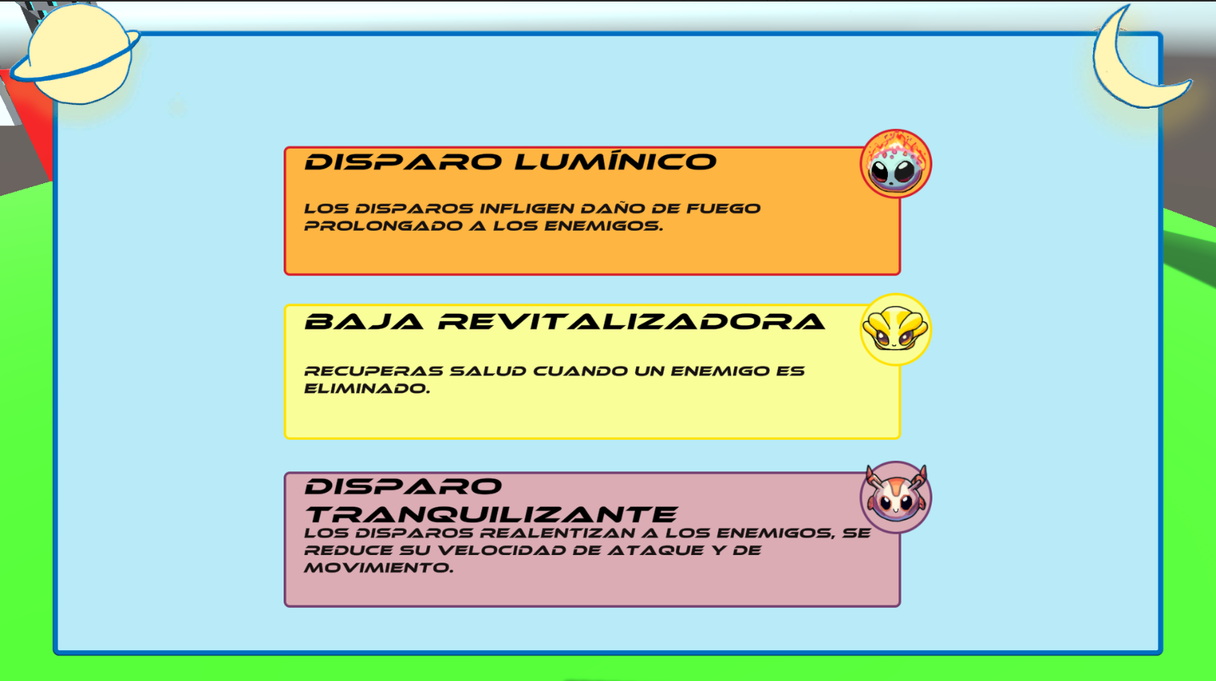
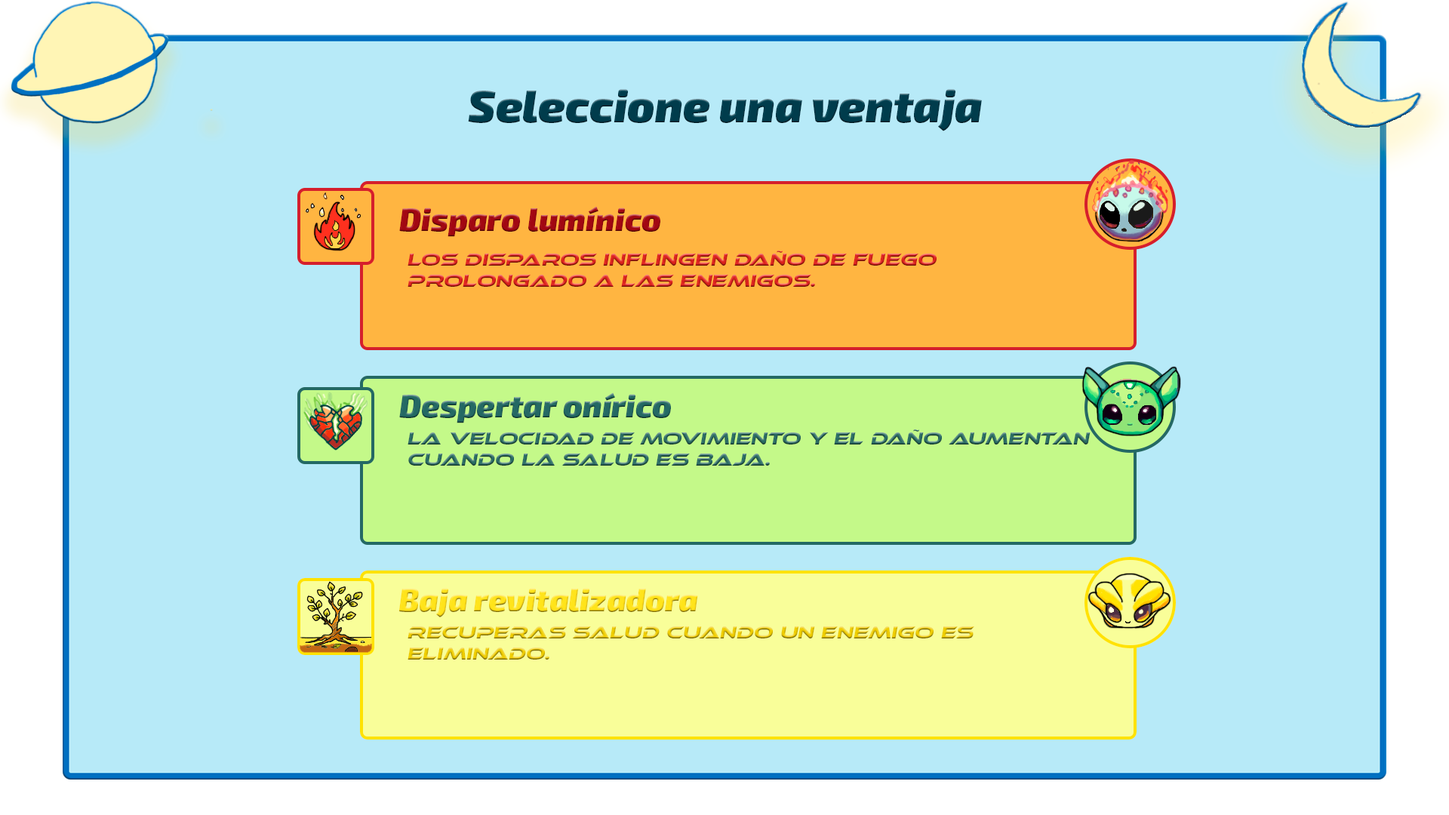
Actualizacion final del GDD

diff --git a/README.md b/README.md
@@ -130,25 +130,28 @@
 - [Ilustración 16: Menú de ajustes](#ilustración-16-menú-de-ajustes)
 - [Ilustración 17: Mockup juego](#ilustración-17-mockup-juego)
 - [Ilustración 18: Pantalla Elección de Mejoras](#ilustración-18-pantalla-de-elección-de-mejoras)
-- [Ilustración 19: Diagrama de flujo](#ilustración-19-diagrama-de-flujo)
-- [Ilustración 20: Siluetas personaje principal](#ilustración-20-siluetas-personaje-principal)
-- [Ilustración 21: Desarrollo concepts personaje principal](#ilustración-21-desarrollo-concepts-personaje-principal)
-- [Ilustración 22: Variación de color del personaje principal](#ilustración-22-variación-de-color-del-personaje-principal)
-- [Ilustración 23: Concepts Armas](#ilustración-23-concepts-armas)
-- [Ilustración 24: Escenario del mercader](#ilustración-24-escenario-del-mercader)
-- [Ilustración 25: Render modelado final](#ilustración-25-render-modelado-final)
-- [Ilustración 26: Skinning](#ilustración-26-skinning)
-- [Ilustración 27: Mapa de Empatía](#ilustración-27-mapa-de-empatía)
-- [Ilustración 28: Caja de herramientas](#ilustración-28-caja-de-herramientas)
-- [Ilustración 29: Lienzo de modelo de negocio](#ilustración-29-lienzo-de-modelo-de-negocio)
-- [Ilustración 30: Engagement rate individual](#ilustración-30-engagement-rate-individual)
-- [Ilustración 31: Engagement rate total](#ilustración-31-engagement-rate-total)
+- [Ilustración 19: Pantalla Fin de Partida](#ilustración-19-pantalla-fin-de-partida)
+- [Ilustración 20: Pantalla de Ranking](#ilustración-20-pantalla-de-ranking)
+- [Ilustración 21: Diagrama de flujo](#ilustración-21-diagrama-de-flujo)
+- [Ilustración 22: Siluetas personaje principal](#ilustración-20-siluetas-personaje-principal)
+- [Ilustración 23: Desarrollo concepts personaje principal](#ilustración-21-desarrollo-concepts-personaje-principal)
+- [Ilustración 24: Variación de color del personaje principal](#ilustración-22-variación-de-color-del-personaje-principal)
+- [Ilustración 25: Concepts Armas](#ilustración-23-concepts-armas)
+- [Ilustración 26: Escenario del mercader](#ilustración-24-escenario-del-mercader)
+- [Ilustración 27: Render modelado final](#ilustración-25-render-modelado-final)
+- [Ilustración 28: Skinning](#ilustración-26-skinning)
+- [Ilustración 29: Mapa de Empatía](#ilustración-27-mapa-de-empatía)
+- [Ilustración 30: Caja de herramientas](#ilustración-28-caja-de-herramientas)
+- [Ilustración 31: Lienzo de modelo de negocio](#ilustración-29-lienzo-de-modelo-de-negocio)
+- [Ilustración 32: Engagement rate individual](#ilustración-30-engagement-rate-individual)
+- [Ilustración 33: Engagement rate total](#ilustración-31-engagement-rate-total)
 
 ## 0. Historial de versiones
 En este apartado se reflejan las versiones del documento de diseño con sus respectivos cambios.
 
 - **Versión 0.0.1**: Documento de diseño en el que explicamos en qué consistirá el juego, así como sus mecánicas principales, detalles técnicos y artísticos.
 - **Versión 0.1.1**: Actualización del GDD. Se introducen cambios en el PEGI, ajustes en jugabilidad, ajustes en el funcionamiento del taller de Torko y nuevas imágenes.
+- **versión 0.2.1**: Actualización previa a la Gold Máster. Muestra de resultados finales.
 
 ## 1. Introducción
 Este documento de diseño ha sido creado por **Unknova Studios** para detallar la visión, mecánicas y estructura de nuestro próximo videojuego, desarrollado para ser jugado en navegadores web. Actúa como la guía principal para todo el equipo de desarrollo, proporcionando una descripción clara de cada aspecto del juego, desde la jugabilidad y la narrativa hasta los elementos visuales y sonoros.  
@@ -171,7 +174,7 @@ La esencia del juego se basa en los siguientes puntos clave:
 La ambientación del juego es espacial y futurista, sumergiendo a los jugadores en un universo lleno de tecnologías desconocidas y razas alienígenas. Cada nivel ofrece no solo combates, sino también la oportunidad de descubrir recursos y secretos, creando una experiencia única en cada partida mientras luchan por derrotar al imperio Tyrnaxx.
 
 ### 1.4. Jugabilidad
-En **Echoes of Xyphoria**, cada partida es infinita, es decir, la partida no acaba hasta que el jugador pierde. El primer nivel está compuesto por 4 salas. Con cada nuevo nivel, el número de salas aumentará en uno. El jugador deberá eliminar a todos los enemigos de una sala para elegir una ventaja para su arma. Finalmente, en cada sala más lejana al punto de aparición habrá un jefe de nivel que los jugadores tendrán que derrotar para conseguir una mejora especial.
+En **Echoes of Xyphoria**, cada partida es infinita, es decir, la partida no acaba hasta que el jugador pierde. El primer nivel está compuesto por 4 salas. Con cada nuevo nivel, el número de salas aumentará en uno. El jugador deberá eliminar a todos los enemigos de una sala para elegir una ventaja para su arma. Finalmente, en cada sala más lejana al punto de aparición habrá un jefe de nivel que los jugadores tendrán que derrotar para conseguir pasar al siguiente nivel.
 
 ### 1.5. Estilo visual
 El estilo visual predominante en **Echoes of Xyphoria** es **cartoon** con ligeros detalles artísticos, creando una experiencia atractiva y visualmente llamativa.  
@@ -253,7 +256,8 @@ En nuestro juego, utilizaremos generación procedimental para diseñar las salas
 
 Este escenario actúa como el lobby jugable del juego, donde los jugadores comenzarán su aventura. Se trata de una sala bien organizada y funcional, donde el jugador podrá elegir su arma entre varias opciones disponibles para la partida. Una vez que el arma sea seleccionada, las otras desaparecerán hasta el inicio de una nueva partida. En el centro de la sala se encuentra una puerta que, al cruzarla, iniciará el primer nivel de combate.
 
-Además, en una pequeña sala lateral habrá un espejo interactivo donde el jugador podrá acceder a un menú para cambiar la skin de su personaje. Este espacio también ofrece la posibilidad de interactuar con otros personajes, que aportan detalles adicionales sobre la historia o ayudan a preparar al jugador para la misión. El Cuartel de la Resistencia es una sala bien organizada y minimalista, con un ambiente industrial y futurista, caracterizado por maquinaria, pantallas holográficas, y zonas de armamento.
+Además, en una pequeña sala lateral habrá un armario interactivo donde el jugador podrá acceder a un menú para cambiar la skin de su personaje. Este espacio también ofrece la posibilidad de comprar skins que aportan aspectos únicos al protagonista. El Cuartel de la Resistencia es una sala bien organizada y minimalista, con un ambiente industrial y futurista, caracterizado por maquinaria, pantallas holográficas, y zonas de armamento.
+
 
 ![Ilustración 5: Escenario Lobby](Elementos%20de%20Dise%C3%B1o/ElementosNuevoGDD/LobbyEscenario.JPG)
 
@@ -305,11 +309,12 @@ Además, se puede acceder al taller de Torko, lugar donde el jugador puede usar 
 
 Una vez elegida el arma, se desbloqueará una puerta que llevará al jugador a la primera sala de combate. Al entrar, los enemigos atacarán al jugador de inmediato. El objetivo es eliminar a todos los enemigos de la sala, quienes al morir dejarán caer monedas (Xyphorita), las cuales podrán utilizarse más adelante en la partida.
 
-Después de derrotar a los enemigos de cada sala, aparecerán tres alienígenas, seleccionados aleatoriamente entre cinco posibles razas, que ofrecerán al jugador una mejora especial. Si el jugador ya ha obtenido una mejora previamente, esta podrá aparecer nuevamente en forma de potenciación. Por ejemplo, si ya posee una mejora de quemadura, futuras mejoras podrían aumentar el daño de esa quemadura.
+Después de derrotar a los enemigos de cada sala, aparecerán tres alienígenas, seleccionados aleatoriamente entre cuatro posibles razas, que ofrecerán al jugador una mejora especial. Si el jugador ya ha obtenido una mejora previamente, esta podrá aparecer nuevamente en forma de potenciación. Por ejemplo, si ya posee una mejora de quemadura, futuras mejoras podrían aumentar el daño de esa quemadura.
 
-Además, en cada nivel, el jugador enfrentará a un boss o jefe más desafiante que aparece en la sala más alejada al punto de aparición. Tras derrotar al jefe, y si el jugador ha conseguido cinco mejoras de una misma raza, recibirá una súper mejora, y no podrá obtener más mejoras relacionadas con ese perk en esa partida. Si el jugador logra obtener dos súper mejoras de razas distintas, podrá elegir una mejora dual que combinará las ventajas de ambas razas para crear una nueva habilidad.
+Además, en cada nivel, el jugador enfrentará a un boss o jefe más desafiante que aparece en la sala más alejada al punto de aparición. Tras derrotar al jefe, el jugador podrá pasar al siguiente nivel.
 
 El juego está diseñado sin un final definido; los enemigos aumentarán su dificultad de manera progresiva, y la partida continuará hasta que el jugador muera. Al finalizar, se registrará el récord de salas completadas.
+
 
 
 ### 3.2. Cámara
@@ -326,8 +331,8 @@ Los controles están pensados para que el jugador se centre en la acción rápid
   - **S**: Moverse hacia abajo.
   - **D**: Moverse hacia la derecha.
 - **Disparo**: Para atacar, el jugador disparará con el clic izquierdo del ratón en la dirección del cursor. Esto permite disparar en cualquier dirección mientras se mueve con las teclas.
-- **Interacción**: Para interactuar con personajes, objetos o elementos del entorno (como tiendas o NPCs), se utilizará la tecla **E**.
-- **Elección de mejoras/tienda**: Para elegir qué mejora escoger o comprar, el jugador usará el movimiento del ratón y el click izquierdo para decidir.
+- **Interacción**: Para interactuar con objetos o elementos del entorno (como tiendas o NPCs), se utilizará un botón. 
+- **Elección de mejoras/tienda**: Para elegir que mejora escoger o comprar, el jugador usará el movimiento del ratón y el click izquierdo para decidir.
 
 ### 3.4. Puntuación y competitivo
 
@@ -339,41 +344,31 @@ Esto nos permite asegurarnos de que siempre habrá un ganador.
 
 ### 3.5. Ventajas
 
-En nuestro juego, después de completar cada sala de enemigos, el jugador tendrá la oportunidad de obtener una mejora de combate ofrecida por una de las razas alienígenas que habitan en Xyphoria. De un conjunto de cinco razas posibles, aparecerán tres de manera aleatoria para ofrecer sus mejoras únicas. Cada raza tiene un poder específico que puede potenciarse a lo largo de la partida, lo que permite a los jugadores personalizar su estilo de juego y adaptarse a los desafíos que enfrenten.
+En nuestro juego, después de completar cada sala de enemigos, el jugador tendrá la oportunidad de obtener una mejora de combate ofrecida por una de las razas alienígenas que habitan en Xyphoria. De un conjunto de cinco razas posibles, aparecerán tres de manera aleatoria para ofrecer sus mejoras únicas. Cada raza tiene un poder específico que puede potenciarse a lo largo de la partida, lo que permite a los jugadores personalizar su estilo de juego y adaptarse a los desafíos que enfrenten. 
 
-Si un jugador logra adquirir cinco mejoras consecutivas de una misma raza, desbloqueará una **Súper mejora**, una versión mucho más poderosa de la habilidad original que tendrá un impacto significativo en el juego. Estas super mejoras ofrecen al jugador un gran poder, pero también bloquean cualquier mejora adicional en esa habilidad específica.
+Este sistema de mejoras da lugar a partidas dinámicas, donde cada decisión puede cambiar radicalmente el curso del juego, permitiendo a los jugadores experimentar diferentes combinaciones y estrategias.
 
-Este sistema de mejoras y súper mejoras da lugar a partidas dinámicas, donde cada decisión puede cambiar radicalmente el curso del juego, permitiendo a los jugadores experimentar diferentes combinaciones y estrategias.
 
 #### 3.5.1. Razas y sus ventajas
 
 - **Lumii**: Las mejoras de los Lumii otorgan la capacidad de quemar a los enemigos, infligiendo daño prolongado con el tiempo. A medida que se mejora esta habilidad, aumentará la probabilidad de quemado, la duración del efecto o el daño que inflige.
 
-  - **Super mejora**: “Lumi Lumi Naa”. Los disparos del jugador tienen una probabilidad del 100% de infligir quemaduras a todos los enemigos en una sala al inicio del combate, con un daño masivo de quemadura durante un periodo extendido.
-
 - **Valkii**: Esta raza ralentiza a los enemigos, reduciendo su velocidad de movimiento y ataque. Al mejorar esta habilidad, aumentará la probabilidad de ralentización, la duración del efecto o la reducción de velocidad.
-
-  - **Super mejora**: "Kii Val Kii". Los disparos del jugador tienen una probabilidad del 100% de paralizar por completo a los enemigos durante unos segundos, dejándolos vulnerables a los ataques.
 
 - **Oranii**: Con cada disparo acertado, el jugador aumenta su velocidad de ataque y movimiento hasta cierto límite. Mejorar esta habilidad permite ganar más velocidad por cada golpe.
 
-  - **Super mejora**: "Ora Ora Ora". La mejora permite fallar hasta cinco disparos sin perder las acumulaciones obtenidas de dar a todos los enemigos.
-
 - **Lyraxii**: Aumenta el daño y la velocidad de movimiento del jugador cuando su salud es baja. Mejorar esta habilidad incrementa el porcentaje de salud que el jugador debe perder para activar el efecto, así como la cantidad de daño y velocidad ganados.
-
-  - **Super mejora**: "Lyr Linry Xii". Cuando la salud del jugador cae por debajo de un umbral crítico, el jugador se vuelve invulnerable durante un corto periodo de tiempo.
 
 - **Xenrii**: Esta raza proporciona la oportunidad de recuperar salud al eliminar enemigos. Al mejorar esta habilidad, se incrementa la probabilidad de recuperar salud y la cantidad de salud obtenida.
 
-  - **Super mejora**: "Zen Xen Rii". Cada enemigo derrotado garantiza una recuperación de salud, pero, además, si el jugador mata a un enemigo mientras su salud está completa, la salud ganada se convierte en una sobrecarga de salud temporal (vida extra).
-
 ### 3.6. Mejoras
 
-En nuestro juego, dado que las partidas son infinitas, los enemigos se vuelven cada vez más fuertes a medida que avanzas. Para equilibrar este aumento de dificultad, hemos creado la **zona del mercader**, donde el jugador también puede escalar en poder. Aquí podrás gastar las monedas obtenidas al derrotar enemigos, conocidas como Xyphorita, para adquirir mejoras permanentes que te ayudarán a sobrevivir más tiempo.
+En nuestro juego, dado que las partidas son infinitas, los enemigos se vuelven cada vez más fuertes a medida que avanzas. Para equilibrar este aumento de dificultad, hemos creado la zona del mercader, donde el jugador también puede escalar en poder. Aquí podrás gastar las monedas obtenidas al derrotar enemigos, conocidas como Xyphorita, para adquirir mejoras permanentes que te ayudarán a sobrevivir más tiempo.
 
-El mercader ofrece una serie de mejoras generales, que se centran en tres aspectos clave: **vida, armadura, daño**… Estas mejoras son esenciales para que el jugador pueda hacer frente a los enemigos más poderosos y prolongar su partida, permitiendo que, con cada compra, el personaje se vuelva más resistente y letal.
+El mercader ofrece una serie de mejoras generales, que se centran en cuatro aspectos clave: vida, armadura, daño y recolección mejorada. Estas mejoras son esenciales para que el jugador pueda hacer frente a los enemigos más poderosos y prolongar su partida, permitiendo que, con cada compra, el personaje se vuelva más resistente y letal.
 
 La implementación de la zona del mercader añade una capa estratégica, ya que los jugadores deberán gestionar sus recursos y decidir qué mejoras priorizar para adaptarse a la dificultad creciente del juego.
+
 
 ### 3.7. Enemigos
 
@@ -518,6 +513,10 @@ Al final de cada partida, aparecerá una pantalla de resumen que muestra el prog
 - **Mejoras Obtenidas**: Un resumen de todas las mejoras conseguidas durante la partida.
 - **Monedas Acumuladas**: Total de monedas recolectadas y disponibles para usar en la tienda.
 - **Opciones de Reintento**: Permite al jugador comenzar una nueva partida o regresar al menú principal.
+
+![Ilustración 19: Pantalla Fin de Partida](Elementos%20de%20Dise%C3%B1o/ElementosNuevoGDD/InterfazDerrota.png)
+
+#### Ilustración 19: Pantalla de Fin de Partida
   
 #### 5.1.9. Pantalla de tienda
 La tienda es accesible desde el menú principal o en algunos momentos especiales dentro de la partida. Aquí, el jugador puede gastar su moneda Cristal Tyrnax para adquirir cosméticos, mejoras o incluso opciones para la partida:
@@ -529,44 +528,49 @@ Esta interfaz muestra las clasificaciones semanales y globales de los jugadores 
 - **Ranking Semanal**: Un ranking que se resetea cada semana, con recompensas para los jugadores que ocupen los primeros lugares.
 - **Ranking Mundial**: Un ranking global de todos los tiempos.
 
+![Ilustración 20: Pantalla de Ranking](Elementos%20de%20Dise%C3%B1o/ElementosNuevoGDD/InterfazRanking.png)
+
+#### Ilustración 20: Pantalla de Ranking
+
 ### 5.2. Diagrama de flujo
 En este apartado, abordaremos todas las pantallas principales que componen la experiencia del jugador dentro del juego, detallando sus funcionalidades y cómo interactúan entre sí. Cada pantalla ha sido diseñada con el objetivo de ofrecer una navegación clara, intuitiva y eficiente, permitiendo a los jugadores centrarse en la acción y progresar de manera fluida. Aquí describiremos pantallas clave como la de Inicio, Menú Principal, Opciones, Pantalla de Juego, Pantalla de Pausa, entre otras, explicando cómo cada una cumple su papel dentro del sistema general del juego y qué opciones ofrece al jugador.
 
-![Ilustración 19: Diagrama de flujo](Elementos%20de%20Diseño/DiagramadeFlujo.jpg)
+![Ilustración 21: Diagrama de flujo](Elementos%20de%20Diseño/DiagramadeFlujo.jpg)
 
-#### Ilustración 19: Diagrama de flujo
+#### Ilustración 21: Diagrama de flujo
   
 ## 6. Arte
 ### 6.1. Estética general
-El arte de **Echoes of Xyphoria** sigue un estilo 2.5D chibi, que combina gráficos en 2D con una sensación de profundidad y perspectiva propia de los juegos en 3D. Esta elección estética ofrece lo mejor de ambos mundos: la claridad visual y el encanto estilizado de los gráficos 2D, junto con una mayor inmersión visual gracias al uso de capas, sombras y efectos tridimensionales.
+El arte de Echoes of Xyphoria sigue un estilo 3D chibi, que combina gráficos en 2D con una sensación de profundidad y perspectiva propia de los juegos en 3D. Esta elección estética ofrece una claridad visual, junto con una mayor inmersión visual gracias al uso de capas, sombras y efectos tridimensionales.
 
 Los personajes, enemigos y escenarios están diseñados con texturas detalladas y colores vibrantes que resaltan en pantalla, manteniendo la fluidez necesaria para un juego de acción rápida. Este enfoque visual permite un diseño creativo y estilizado, ideal para destacar la diversidad de razas alienígenas y paisajes espaciales.
+
 
 ### 6.2. Concept Art
 El concept art es la base visual del juego, donde se diseñan los personajes, escenarios y elementos clave. Esta fase sirve para visualizar ideas, definir estilos artísticos y establecer la atmósfera general que tendrá el juego. A continuación, se muestran algunos concepts de personajes, enemigos, armas… 
 
-![Ilustración 20: Siluetas personaje principal](Elementos%20de%20Diseño/PersonajePrincipal/Personaje%20Principal%20Concept%20Art/SiluetasPersonaje.jpg)
+![Ilustración 22: Siluetas personaje principal](Elementos%20de%20Diseño/PersonajePrincipal/Personaje%20Principal%20Concept%20Art/SiluetasPersonaje.jpg)
 
-#### Ilustración 20: Siluetas personaje principal
+#### Ilustración 22: Siluetas personaje principal
 
-![Ilustración 21: Desarrollo concepts personaje principal](Elementos%20de%20Diseño/PersonajePrincipal/Personaje%20Principal%20Concept%20Art/DesarrolloPersonaje.jpg)
+![Ilustración 23: Desarrollo concepts personaje principal](Elementos%20de%20Diseño/PersonajePrincipal/Personaje%20Principal%20Concept%20Art/DesarrolloPersonaje.jpg)
 
-#### Ilustración 21: Desarrollo concepts personaje principal
+#### Ilustración 23: Desarrollo concepts personaje principal
 
-![Ilustración 22: Variación de color del personaje principal](Elementos%20de%20Diseño/PersonajePrincipal/Personaje%20Principal%20Concept%20Art/EstudioColoresPersonaje.jpg)
+![Ilustración 24: Variación de color del personaje principal](Elementos%20de%20Diseño/PersonajePrincipal/Personaje%20Principal%20Concept%20Art/EstudioColoresPersonaje.jpg)
 
-#### Ilustración 22: Variación de color del personaje principal
+#### Ilustración 24: Variación de color del personaje principal
 
-![Ilustración 23: Concepts Armas](Elementos%20de%20Diseño/ConceptArmas.JPG)
+![Ilustración 25: Concepts Armas](Elementos%20de%20Diseño/ConceptArmas.JPG)
 
-#### Ilustración 23: Concepts Armas
+#### Ilustración 25: Concepts Armas
 
 ### 6.3. Modelado 3D
 En la etapa de modelado 3D, las ideas del concept art toman forma tridimensional. Aquí, se crean los modelos de personajes, objetos y escenarios con detalles precisos para ser usados en el juego. Cada modelo refleja las características definidas previamente en los conceptos visuales. Estos son algunos renders de modelos 3D que se están desarrollando.
 
-![Ilustración 24: Escenario del mercader](Elementos%20de%20Diseño/Escenario%20del%20Mercader/Modelos3D-%20Escenario%20del%20Mercader/ModeladoEscenarioMercader.jpg)
+![Ilustración 26: Escenario del mercader](Elementos%20de%20Diseño/Escenario%20del%20Mercader/Modelos3D-%20Escenario%20del%20Mercader/ModeladoEscenarioMercader.jpg)
 
-#### Ilustración 24: Escenario del mercader
+#### Ilustración 26: Escenario del mercader
 
 ## 7. Animación
 La animación da vida a los modelos 3D, permitiendo que los personajes y elementos del juego se muevan e interactúen con el entorno. Los movimientos, ataques y acciones son creados para transmitir fluidez y dinamismo durante el juego. Queremos crear animaciones perfectamente pulidas para que el jugador se sienta dentro de la historia y del juego.
@@ -577,9 +581,9 @@ La animación de escenarios introduce movimiento a los fondos y ambientes del ju
 ### 7.2. Personajes
 En la animación de personajes, se diseñan los movimientos y acciones que llevarán a cabo los protagonistas de la historia y enemigos. Desde caminatas hasta combates, esta etapa se enfoca en crear movimientos fluidos y realistas que conecten con la jugabilidad.
 
-![Ilustración 25: Render modelado final](Elementos%20de%20Diseño/PersonajePrincipal/Personaje%20Principal%20Modelado/RenderModeladoFinal.jpg)
+![Ilustración 27: Render modelado final](Elementos%20de%20Diseño/PersonajePrincipal/Personaje%20Principal%20Modelado/RenderModeladoFinal.jpg)
 
-#### Ilustración 25: Render modelado final
+#### Ilustración 27: Render modelado final
 
 #### 7.2.1. Rigging
 El esqueleto de los personajes y algunos objetos hacen que estos puedan moverse de manera articulada, estableciendo una base para las animaciones y los movimientos complejos.
@@ -587,9 +591,9 @@ El esqueleto de los personajes y algunos objetos hacen que estos puedan moverse 
 #### 7.2.2. Skinning
 El skinning permite que, al mover los huesos del rig, la malla se deforme correctamente y el personaje se mueva de forma natural, respetando el diseño original y asegurando coherencia visual en los movimientos.
 
-![Ilustración 26: Skinning](Elementos%20de%20Diseño/PersonajePrincipal/Personaje%20Principal%20Skinning%20y%20Animaciones/PersonajePrincipal_Esqueleto.JPG)
+![Ilustración 28: Skinning](Elementos%20de%20Diseño/PersonajePrincipal/Personaje%20Principal%20Skinning%20y%20Animaciones/PersonajePrincipal_Esqueleto.JPG)
 
-#### Ilustración 26: Skinning
+#### Ilustración 28: Skinning
 
 ## 8. Audio
 El audio en **Echoes of Xyphoria** juega un papel fundamental en la inmersión del jugador en el universo espacial. La banda sonora tendrá una mezcla de música electrónica y espacial que acompaña el ritmo frenético de las partidas, intensificándose durante los momentos clave del combate.
@@ -645,23 +649,23 @@ Tras tener todo esto en cuenta, queremos conseguir los siguientes resultados:
 - Crear una experiencia entrañable para todo tipo de jugadores, tanto casuales como asiduos, con mecánicas únicas, divertidas y fáciles de entender. 
 - Permitir a los jugadores dar rienda suelta a su imaginación creando cosméticos que alteren el aspecto de partes del juego, actualizando el juego con contenidos nuevos cada vez.
 
-![Ilustración 27: Mapa de Empatía](Elementos%20de%20Diseño/ElementosModeloNegocio/MapadeEmpatia.jpg)
+![Ilustración 29: Mapa de Empatía](Elementos%20de%20Diseño/ElementosModeloNegocio/MapadeEmpatia.jpg)
 
-#### Ilustración 27: Mapa de Empatía
+#### Ilustración 29: Mapa de Empatía
 
 ### 9.4. Caja de herramientas
 A continuación, se muestra la caja de herramientas de Unknova:
 
-![Ilustración 28: Caja de herramientas](Elementos%20de%20Diseño/ElementosModeloNegocio/CajadeHerramientas.jpg)
+![Ilustración 30: Caja de herramientas](Elementos%20de%20Diseño/ElementosModeloNegocio/CajadeHerramientas.jpg)
 
-#### Ilustración 28: Caja de herramientas
+#### Ilustración 30: Caja de herramientas
 
 ### 9.5. Lienzo de modelo de negocio
 A continuación, se muestra el lienzo de modelo de Unknova:
 
-![Ilustración 29: Lienzo de modelo de negocio](Elementos%20de%20Diseño/ElementosModeloNegocio/LienzoModeloNegocio.jpg)
+![Ilustración 31: Lienzo de modelo de negocio](Elementos%20de%20Diseño/ElementosModeloNegocio/LienzoModeloNegocio.jpg)
 
-#### Ilustración 29: Lienzo de modelo de negocio
+#### Ilustración 31: Lienzo de modelo de negocio
 
 ## 10. Marketing
 El marketing será clave para destacar en un mercado competitivo. El foco estará en la exploración de mercado, el análisis de los requisitos de los usuarios y una estrategia de entrada disruptiva que permita que **Echoes of Xyphoria** sobresalga desde el inicio. El objetivo es crear una imagen de marca sólida y generar interés antes de su lanzamiento.
@@ -709,13 +713,13 @@ Monitorear el alcance y las interacciones será crucial para ajustar nuestra est
 ### 11.6. Resultados
 Mediremos el engagement a través de herramientas de análisis en cada plataforma, evaluando la efectividad de nuestras publicaciones y ajustando la estrategia en función del rendimiento. Esto nos permitirá optimizar el crecimiento de la marca a largo plazo.
 
-![Ilustración 30: Engagement rate individual](Elementos%20de%20Diseño/ElementosModeloNegocio/EngagementRateIndividual.jpg)
+![Ilustración 32: Engagement rate individual](Elementos%20de%20Diseño/ElementosModeloNegocio/EngagementRateIndividual.jpg)
 
-#### Ilustración 30: Engagement rate individual
+#### Ilustración 32: Engagement rate individual
 
-![Ilustración 31: Engagement rate total](Elementos%20de%20Diseño/ElementosModeloNegocio/EngagementRateTotal.jpg)
+![Ilustración 33: Engagement rate total](Elementos%20de%20Diseño/ElementosModeloNegocio/EngagementRateTotal.jpg)
 
-#### Ilustración 31: Engagement rate total
+#### Ilustración 33: Engagement rate total
 
 **Enlace a redes sociales:** https://bento.me/unknova
 
